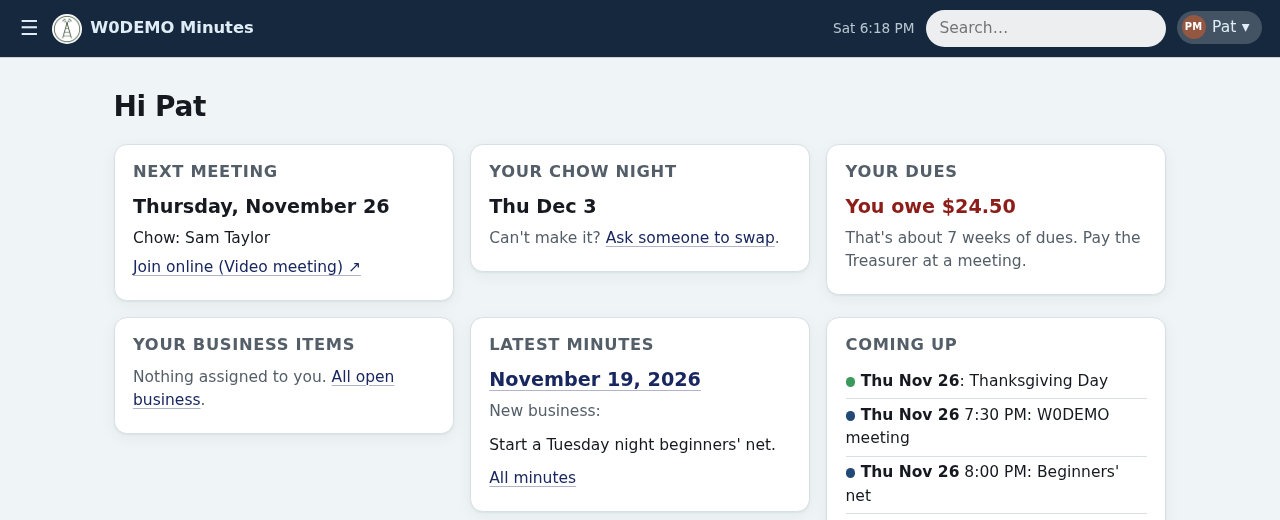
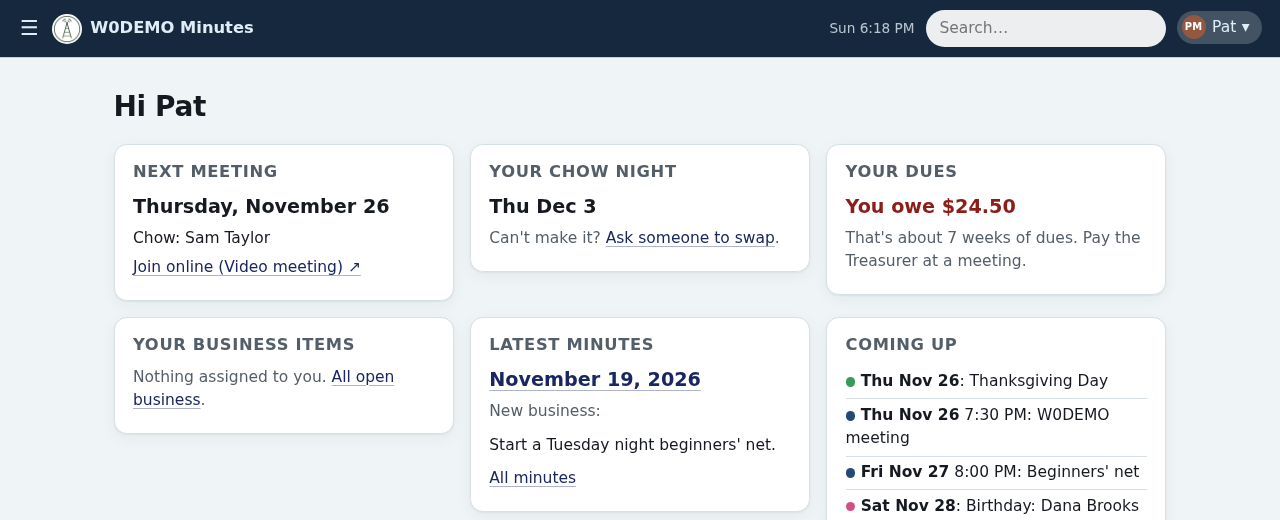
Cancel a meeting night by deleting that date of the weekly meeting or adding a "No meeting" entry
Either step alone takes the night off Home, the notes picker, the console's next date and new chow nights; a
"No meeting" entry also hides the weekly meeting on the calendar (page and feed) that night.

Claude-Session: https://claude.ai/code/session_015owk5Uy8uGwmem7sSbAMdS

Changed region(s): [[0.6562, 0.8923, 0.9062, 1.0], [0.6562, 0.0308, 0.6875, 0.0615]]

diff --git a/src/club_minutes/templates/home.html b/src/club_minutes/templates/home.html
@@ -11,7 +11,7 @@
   <h2>{% if live %}Meeting in progress{% else %}Next meeting{% endif %}</h2>
   {% if live %}<p class="big"><a href="/meetings/{{ live.slug }}?from=home">{{ emoji('🔴', 'live') }} Follow tonight's minutes live</a></p>
   {% elif next_meeting %}<p class="big">{{ next_meeting|date('weekday') }}{% if next_meeting == today %} · tonight{% endif %}</p>{% endif %}
-  {% if chow_next %}<p>Chow{% if not next_meeting or chow_next[0] != next_meeting.isoformat() %} {{ fmt(chow_next[0]) }}{% endif %}: {% if chow_next[1].status == 'none' %}none{% if chow_next[1].note %} ({{ chow_next[1].note }}){% endif %}{% elif chow_next[1].member %}{{ club.name(chow_next[1].member) }}{% else %}not set{% endif %}</p>{% endif %}
+  {% if chow_next %}<p>Chow: {% if chow_next.status == 'none' %}none{% if chow_next.note %} ({{ chow_next.note }}){% endif %}{% elif chow_next.member %}{{ club.name(chow_next.member) }}{% else %}not set{% endif %}</p>{% endif %}
   {% if teams %}<p><a href="{{ teams.url }}" target="_blank" rel="noopener">Join online ({{ teams.label }})</a></p>{% endif %}
 </section>
 {% if module('chow') %}<section class="card">

diff --git a/tests/test_chow.py b/tests/test_chow.py
@@ -346,3 +346,53 @@ def test_the_schedule_pages_through_every_upcoming_night(env, tmp_path, monkeypa
     first, second = c.get("/chow").text, c.get("/chow?page=2").text
     assert "Page 1 of 2" in first and "/members/amy?from=chow" not in first and "Ask to swap" in first
     assert "/members/amy?from=chow" in second and "Page 2 of 2" in second
+
+
+def test_no_meeting_entry_drops_the_night(env, monkeypatch, tmp_path):
+    from club_minutes import events, web
+    club, _s, _ = env
+    monkeypatch.setattr(events, "DATA", tmp_path)
+    monkeypatch.setattr(web.archive, "club", club)
+    monkeypatch.setattr(web.dt, "date", type("D", (dt.date,), {"today": classmethod(lambda c: THU)}))
+    assert web.upcoming_meetings(2) == [THU, THU + dt.timedelta(days=7)]
+    evs = []
+    events.add(evs, "events", {"title": "no Meeting (Holiday)", "start": f"{THU}", "end": None}, "sec")
+    events.save(evs)
+    assert web.upcoming_meetings(2) == [THU + dt.timedelta(days=7), THU + dt.timedelta(days=14)]
+    assert chow.meeting_nights(club, THU, THU, with_cancelled=True) == [THU]  # dues still count it
+
+
+def test_deleting_a_meeting_date_cancels_it_and_no_meeting_hides_the_meeting(env, monkeypatch, tmp_path):
+    """Jim, 2026-11-22: either step alone cancels a night."""
+    from club_minutes import calview, events
+    club, _s, _ = env
+    monkeypatch.setattr(events, "DATA", tmp_path)
+    nxt = THU + dt.timedelta(days=7)
+    meet = events.add([], "events", {"title": "Club meeting", "start": f"{THU}T19:30", "end": f"{THU}T21:30",
+                                     "repeat": {"freq": "weekly", "interval": 1, "until": None}}, "sec") | {"meeting": True}
+    evs = [meet]
+    events.delete(evs, meet["id"], f"{THU}", "this")
+    events.add(evs, "events", {"title": "No meeting (Holiday)", "start": f"{nxt}", "end": None}, "sec")
+    events.save(evs)
+    assert chow.meeting_nights(club, THU, nxt) == []
+    monkeypatch.setattr(calview.store, "ensure_meeting", lambda club: None)
+    shown = [(x.start, x.title) for x in calview.entries(club, type("A", (), {"meetings": []})(), None, THU, nxt + dt.timedelta(days=7))[0]
+             if x.kind == "events"]
+    assert shown == [(nxt, "No meeting (Holiday)"), (nxt + dt.timedelta(days=7), "Club meeting")]
+
+
+def test_home_shows_the_chow_of_the_next_meeting_night_only(env, monkeypatch, tmp_path):
+    """Jim, 2026-11-22: with this Thursday cancelled, Home's Next meeting card said "Chow Thu …: none" for it."""
+    from fastapi.testclient import TestClient
+
+    from club_minutes import events, web
+    club, s, _ = env
+    monkeypatch.setattr(events, "DATA", tmp_path)
+    monkeypatch.setattr(web.dt, "date", type("D", (dt.date,), {"today": classmethod(lambda c: THU - dt.timedelta(days=3))}))
+    s["nights"] = {f"{THU}": {"status": "none", "note": "Holiday"}, f"{THU + dt.timedelta(days=7)}": {"member": "bob", "status": "scheduled"}}
+    chow.save(s)
+    events.save([events.add([], "events", {"title": "No meeting (Holiday)", "start": f"{THU}", "end": None}, "sec")])
+    monkeypatch.setattr(web, "archive", Archive(tmp_path, club))
+    monkeypatch.setattr(web.authn, "member_for", lambda token: "amy")
+    card = TestClient(web.app).get("/").text.split("Next meeting", 1)[1].split("</section>", 1)[0]
+    assert "Holiday" not in card and f"Chow: {club.name('bob')}" in card

diff --git a/src/club_minutes/web.py b/src/club_minutes/web.py
@@ -1016,7 +1016,7 @@ def business_comment_delete(request: Request, iid: str, cid: str, back: str = Fo
 
 def upcoming_meetings(n: int = 4) -> list[dt.date]:
     today = dt.date.today()
-    return chow.meeting_nights(archive.club, today, today + dt.timedelta(days=7 * n))[:n]
+    return chow.meeting_nights(archive.club, today, today + dt.timedelta(days=7 * n + 56))[:n]  # +8 weeks: cancelled nights don't shorten the list
 
 
 @app.post("/business/notes")
@@ -2126,7 +2126,7 @@ def home(request: Request, error: str = "", mid: str = Depends(me)):
     if request.url.query and set(request.query_params) - {"error"}:  # old bookmarks of the archive (/?period=...)
         return RedirectResponse(f"/minutes?{request.url.query}", status_code=301)
     club, today = archive.club, dt.date.today()
-    nights = chow.meeting_nights(club, today, today + dt.timedelta(days=7))
+    nights = upcoming_meetings(1)
     s = chow.load() if club.has("chow") else {"swaps": []}
     upcoming = chow.upcoming(s, n=60) if club.has("chow") else []
     latest = next((m for m in archive.meetings if m.status != "draft"), None)  # newest first
@@ -2137,7 +2137,7 @@ def home(request: Request, error: str = "", mid: str = Depends(me)):
     coming = [e for e in coming if e.kind != "chow"][:8]
     # Upcoming Events the minutes give without a date (all of them before events had dates) still show, as written
     undated = [richtext.title(i.text) for i in (latest.items("Upcoming Events") if latest else []) if not i.when]
-    return page(request, "home.html", dues=treasurer.standing(club, ts, mid) if treasurer.members_see(ts := treasurer.load()) else None, certificate_note=treasurer.certificate_note(club), money=treasurer.money, next_meeting=nights[0] if nights else None, chow_next=upcoming[0] if upcoming else None,
+    return page(request, "home.html", dues=treasurer.standing(club, ts, mid) if treasurer.members_see(ts := treasurer.load()) else None, certificate_note=treasurer.certificate_note(club), money=treasurer.money, next_meeting=nights[0] if nights else None, chow_next=next((x for d, x in upcoming if nights and d == nights[0].isoformat()), None),  # that night's chow only (Jim, 2026-11-22)
                 my_chow=next(((d, x) for d, x in upcoming if x.get("member") == mid and x.get("status") != "none"), None),
                 swaps=[r for r in s["swaps"] if r["status"] == "pending" and r["with"] == mid],
                 items=sorted(items, key=lambda x: x["due"] or "9999"), latest=latest, coming=coming, undated=undated,

diff --git a/src/club_minutes/treasurer.py b/src/club_minutes/treasurer.py
@@ -401,7 +401,7 @@ def standing(club: Club, s: dict, mid: str, today: dt.date | None = None, nights
     start, joined = max(c["start"], m.member_since or ""), m.member_since or c["start"]
     weekly = rate(c, "dues_weekly", today.isoformat())
     # Every meeting night accrues dues, holidays included (a weekly club's year is 52 nights).
-    nights_owed = chow.meeting_nights(club, dt.date.fromisoformat(start), today)
+    nights_owed = chow.meeting_nights(club, dt.date.fromisoformat(start), today, with_cancelled=True)
     missed = sorted(d for d, x in (nights if nights is not None else chow.load()["nights"]).items()
                     if x.get("member") == mid and x.get("status") == "missed" and start <= d <= today.isoformat()
                     ) if club.has("chow") else []  # the missed-chow fee is part of the chow module
@@ -421,7 +421,7 @@ def standing(club: Club, s: dict, mid: str, today: dt.date | None = None, nights
         j = dt.date.fromisoformat(m.member_since)
         cert_due = j.replace(year=j.year + int(c["certificate_years"]), day=28 if (j.month, j.day) == (2, 29) else j.day)
     ahead = -owed // weekly if owed < 0 else 0  # whole meeting nights already paid for (monthly or yearly payers)
-    later = chow.meeting_nights(club, today + dt.timedelta(days=1), today + dt.timedelta(weeks=ahead + 1))
+    later = chow.meeting_nights(club, today + dt.timedelta(days=1), today + dt.timedelta(weeks=ahead + 1), with_cancelled=True)
     return {"member": mid, "owed": owed, "weeks_behind": -(-owed // weekly) if owed > 0 else 0,
             "behind": owed >= int(c["arrears_weeks"]) * weekly, "missed_chow": missed, "certificate": cert,
             "certificate_bought": max((e["date"] for e in bonds), default=None) if cert else None, "suspended": m.status.lower() == "suspended", "paid_through": later[ahead - 1].isoformat() if ahead else None,

diff --git a/src/club_minutes/events.py b/src/club_minutes/events.py
@@ -129,6 +129,21 @@ def move_meeting(club, since: dt.date, where: str | None, online: str | None, by
     return first
 
 
+def cancelled(evs: list[dict], lo: dt.date, hi: dt.date) -> set[dt.date]:
+    """Meeting nights in lo..hi called off (Jim, 2026-11-22: either step alone does it): a date deleted from the weekly
+    meeting, or a "No meeting" entry (title starting so, any case) on the Club events calendar."""
+    out = set()
+    for e in evs:
+        if e.get("meeting"):
+            out |= {d for s in e.get("skip", []) if lo <= (d := dt.date.fromisoformat(s)) <= hi}
+        elif e.get("cal") == "events":
+            for d in dates(e, lo - reach(e), hi + reach(e)):
+                o = occurrence(e, d)
+                if o["title"].strip().lower().startswith("no meeting") and lo <= (day := _dt(o["start"]).date()) <= hi:
+                    out.add(day)
+    return out
+
+
 def quiet(e: dict) -> bool:
     """Left out of the console's read-out: ticked on the event, or the weekly meeting unless unticked."""
     return e.get("quiet", bool(e.get("meeting")))

diff --git a/src/club_minutes/chow.py b/src/club_minutes/chow.py
@@ -99,14 +99,20 @@ def eligible(club: Club, s: dict, mid: str, date: dt.date) -> bool:
     return not any(a <= date.isoformat() <= b for a, b in c.get("away") or [])
 
 
-def meeting_nights(club: Club, start: dt.date, until: dt.date) -> list[dt.date]:
+def meeting_nights(club: Club, start: dt.date, until: dt.date, with_cancelled: bool = False) -> list[dt.date]:
+    """Meeting weekdays from start to until. Nights with a "No meeting" calendar entry are left out unless `with_cancelled`
+    (dues still count them). The one place a later "meetings that aren't weekly" rule goes."""
     wd = club.meeting_weekday
     d = start + dt.timedelta(days=(wd - start.weekday()) % 7)
     out = []
     while d <= until:
         out.append(d)
         d += dt.timedelta(days=7)
-    return out
+    if with_cancelled:
+        return out
+    from . import events
+    off = events.cancelled(events.load(), start, until)
+    return [d for d in out if d not in off]
 
 
 def next_up(club: Club, s: dict) -> str | None:

diff --git a/src/club_minutes/calview.py b/src/club_minutes/calview.py
@@ -138,11 +138,15 @@ def entries(club: Club, archive, viewer: str | None, lo: dt.date, hi: dt.date, p
     store.ensure_meeting(club)
     kinds = public_kinds(club) if public else list(store.CALS)
     tz = club.timezone
-    for e in store.load():
+    evs = store.load()
+    off = store.cancelled(evs, lo - dt.timedelta(days=7), hi + dt.timedelta(days=7))  # the weekly meeting on a "No meeting" night
+    for e in evs:
         if e["cal"] not in kinds:
             continue
         pad = store.reach(e)  # a date moved to another day, or another zone's date, can land in the range from outside it
         for d in store.dates(e, lo - pad, hi + pad):
+            if e.get("meeting") and d in off:
+                continue
             o = store.occurrence(e, d)
             x = _entry(store.in_zone(o, e.get("tz"), tz), e["cal"], id=e["id"], repeats=bool(e.get("repeat")),
                        occ=d.isoformat() if e.get("repeat") else None, zone=_zone(o, e.get("tz"), tz))

diff --git a/src/club_minutes/console.py b/src/club_minutes/console.py
@@ -300,6 +300,7 @@ def calendar_ahead(archive: Archive, date: dt.date, days: int = 92) -> dict:
             "until": f"{e.ends:%Y-%m-%dT%H:%M}" if e.ends else (e.end.isoformat() if e.end > e.start else None)} for e in items
            if e.kind in READ_OUT and not e.from_minutes and e.id not in quiet and not (e.id or "").startswith("due-")]
     after = [d for e in evs if e.get("meeting") for d in store.dates(e, date + dt.timedelta(days=1), date + dt.timedelta(days=60))]
+    after = [d for d in after if d not in store.cancelled(evs, date, date + dt.timedelta(days=60))]  # No meeting entries
     return {"calendar": out, "next_meeting": min(after, default=date + dt.timedelta(days=7)).isoformat()}
 
 

diff --git a/docs/officers.md b/docs/officers.md
@@ -47,7 +47,7 @@ What a member may do comes from their **roles**. A role is given by the offices 
 - **Who changed what** (officers) lists every change.
 
 > [!TIP]
-> To skip the meeting on a holiday, delete that one date.
+> To cancel a meeting night, do either: delete that one date of the weekly meeting, or add a Club events entry on that date whose title starts with **No meeting** (for example "No meeting (Thanksgiving)"), which also tells members why; the weekly meeting then doesn't show that night. Either way the night is off Home's next meeting, the business notes' meeting list and the chow schedule's new nights. Nights already in the chow schedule stay as they are.
 
 **The weekly meeting** is on Club events. To change its day, time, place or online link, an admin uses **Admin → Site → Club** and picks the date it starts; earlier meetings stay as they were.
 

diff --git a/CHANGELOG.md b/CHANGELOG.md
@@ -6,6 +6,9 @@ Versions follow [semantic versioning](https://semver.org): the first number goes
 
 ## Unreleased
 
+### Added
+- **Cancelling a meeting night:** delete that date of the weekly meeting, or add a "No meeting" entry on the club's calendar (the meeting then drops off the calendar that night). Either one takes the night off Home, the business notes and the leader console, and the next week's meeting shows instead.
+
 ### Changed
 - In minutes made from now on, a faint line separates the items in every section, as it did in Community Reports, on the page and in the PDF. Minutes already published look as they did.
 
